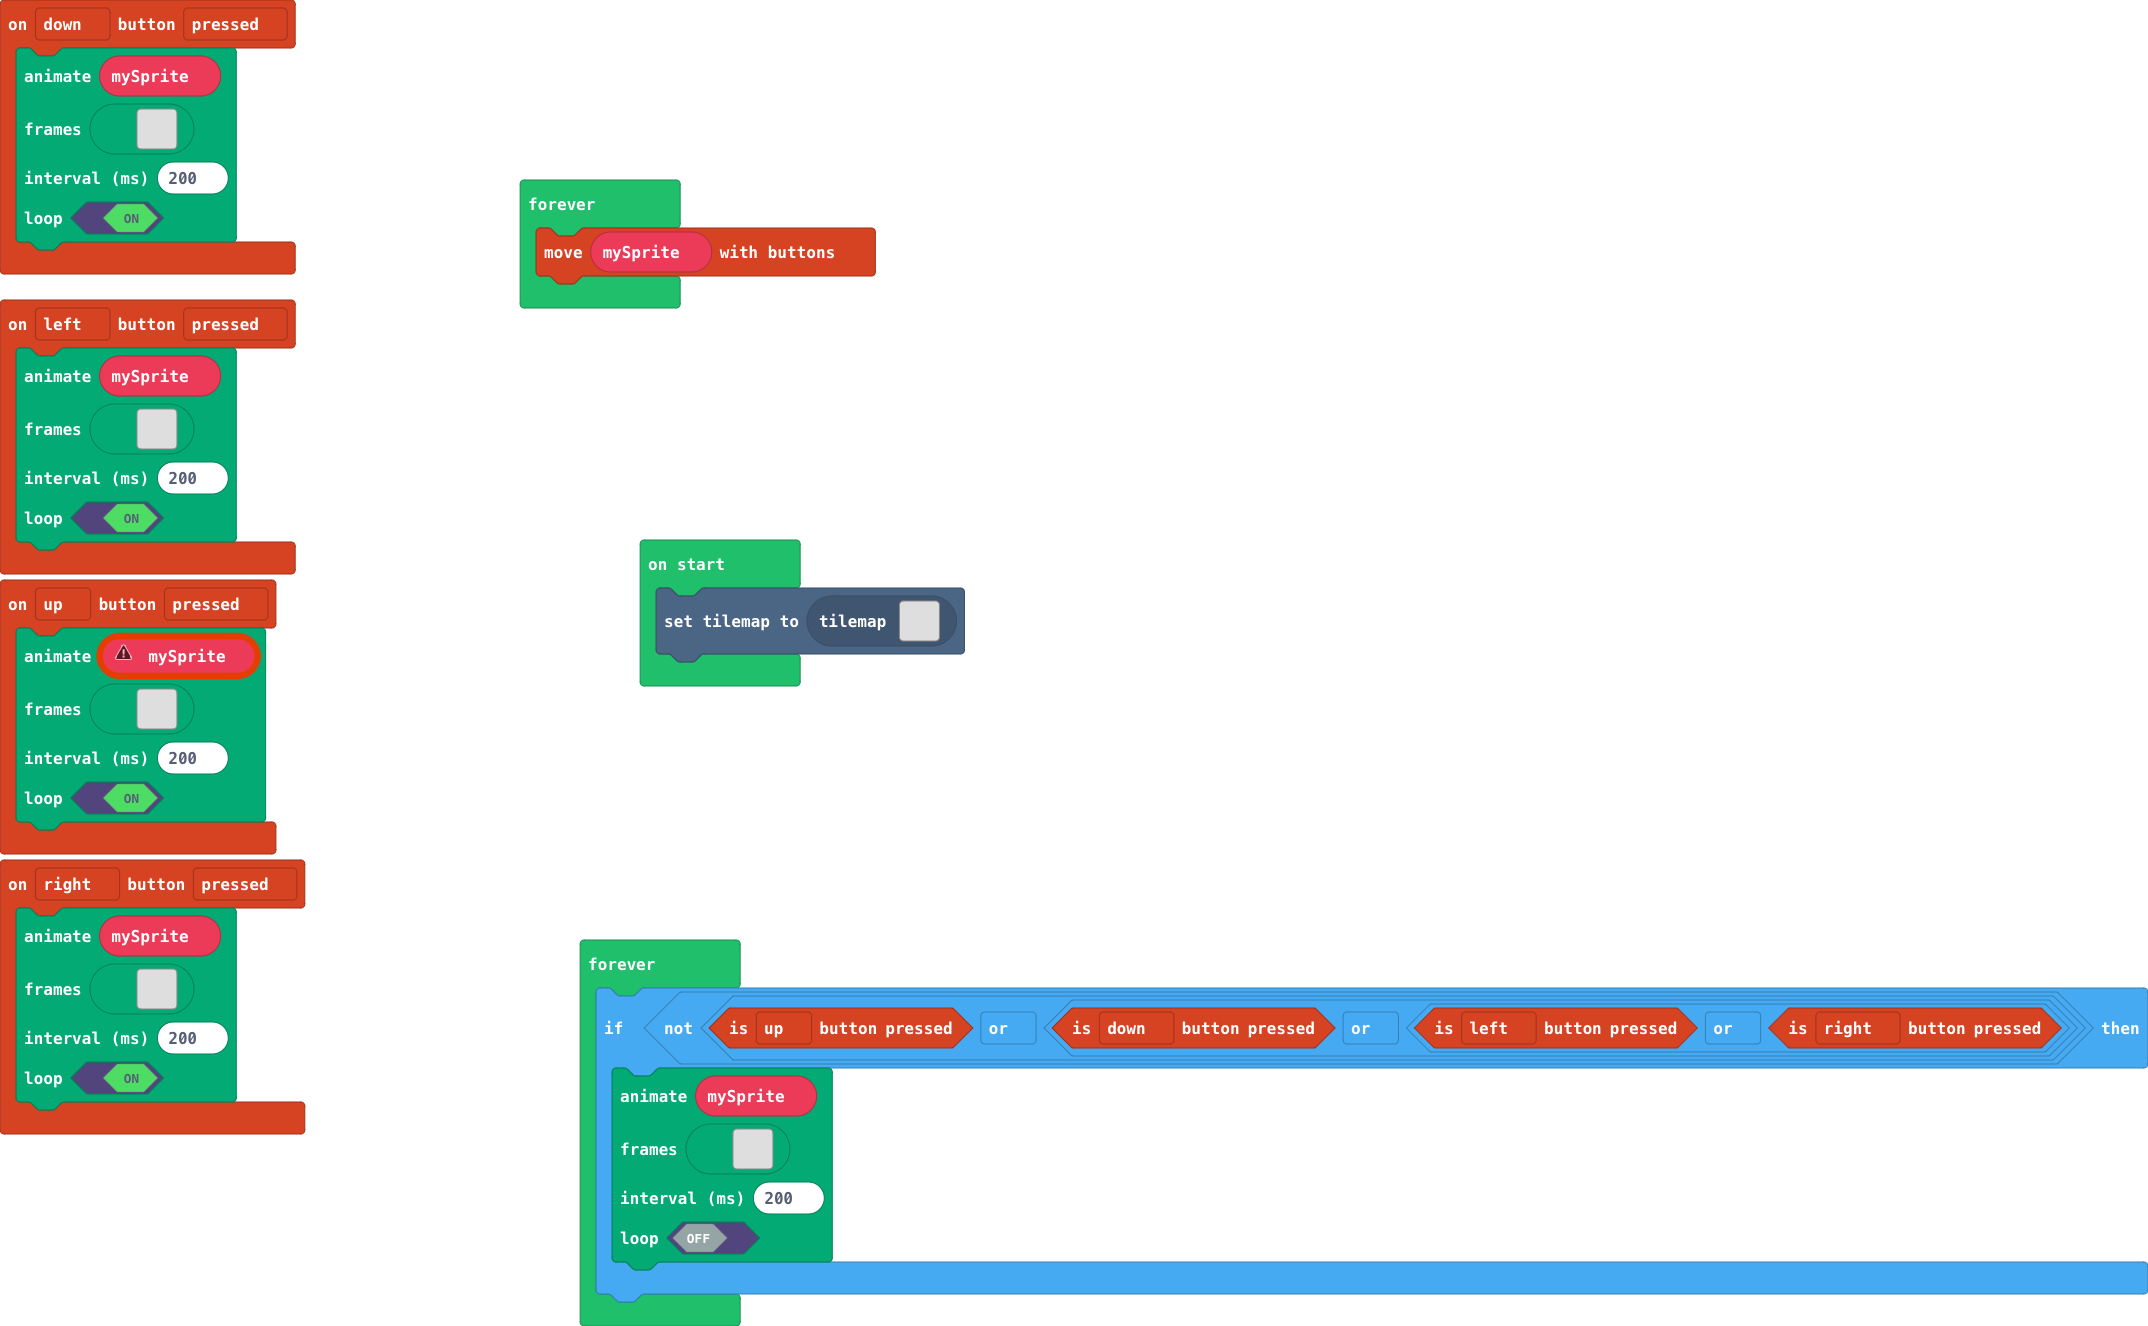
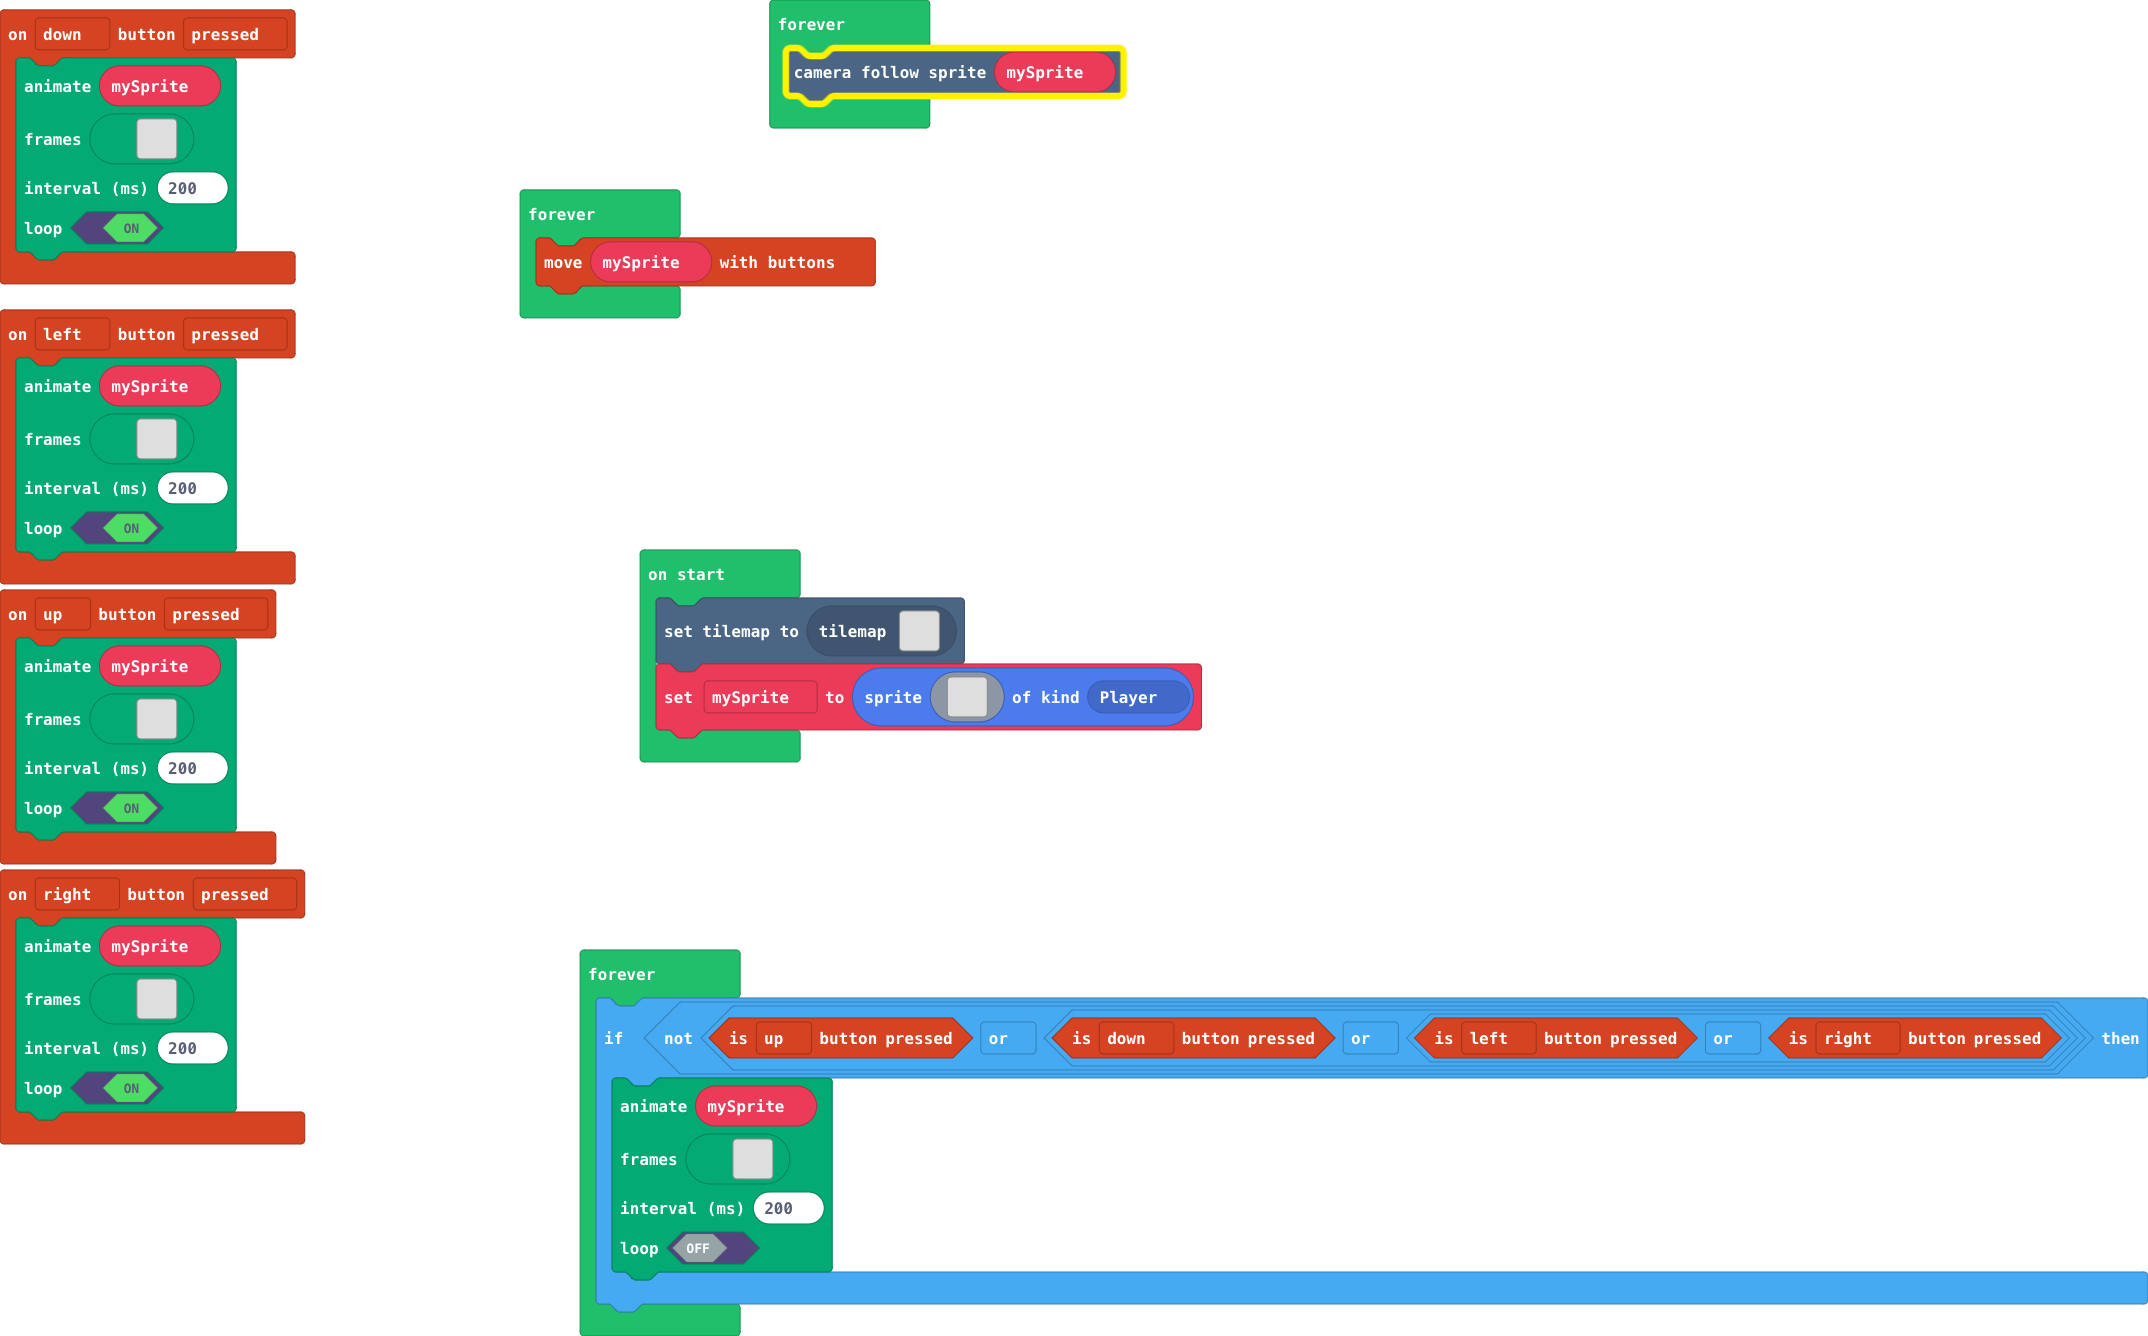
camera follow

diff --git a/images.g.ts b/images.g.ts
@@ -126,25 +126,6 @@ namespace myImages {
 ................................................................................................................................................................
 ................................................................................................................................................................
 `;
-            case "image1":
-            case "idleLeft":return img`
-. . . . f f f f f f . . . . . . 
-. . . f 2 f e e e e f f . . . . 
-. . f 2 2 2 f e e e e f f . . . 
-. . f e e e e f f e e e f . . . 
-. f e 2 2 2 2 e e f f f f . . . 
-. f 2 e f f f f 2 2 2 e f . . . 
-. f f f e e e f f f f f f f . . 
-. f e e 4 4 f b e 4 4 e f f . . 
-. . f e d d f 1 4 d 4 e e f . . 
-. . . f d d d d 4 e e e f . . . 
-. . . f e 4 4 4 e e f f . . . . 
-. . . f 2 2 2 e d d 4 . . . . . 
-. . . f 2 2 2 e d d e . . . . . 
-. . . f 5 5 4 f e e f . . . . . 
-. . . . f f f f f f . . . . . . 
-. . . . . . f f f . . . . . . . 
-`;
             case "image2":
             case "forestTree1":return img`
 777777777777777777777777
@@ -187,6 +168,25 @@ namespace myImages {
 775777777feeeef777777777
 77777777feeefeef77777777
 77777777fefeffef77777777
+`;
+            case "image1":
+            case "idleLeft":return img`
+. . . . f f f f f f . . . . . . 
+. . . f 2 f e e e e f f . . . . 
+. . f 2 2 2 f e e e e f f . . . 
+. . f e e e e f f e e e f . . . 
+. f e 2 2 2 2 e e f f f f . . . 
+. f 2 e f f f f 2 2 2 e f . . . 
+. f f f e e e f f f f f f f . . 
+. f e e 4 4 f b e 4 4 e f f . . 
+. . f e d d f 1 4 d 4 e e f . . 
+. . . f d d d d 4 e e e f . . . 
+. . . f e 4 4 4 e e f f . . . . 
+. . . f 2 2 2 e d d 4 . . . . . 
+. . . f 2 2 2 e d d e . . . . . 
+. . . f 5 5 4 f e e f . . . . . 
+. . . . f f f f f f . . . . . . 
+. . . . . . f f f . . . . . . . 
 `;
         }
         return null;

diff --git a/main.ts b/main.ts
@@ -32,6 +32,10 @@ controller.down.onEvent(ControllerButtonEvent.Pressed, function () {
 })
 let mySprite: Sprite = null
 tiles.setCurrentTilemap(tilemap`level`)
+mySprite = sprites.create(assets.image`idleLeft`, SpriteKind.Player)
+forever(function () {
+    scene.cameraFollowSprite(mySprite)
+})
 forever(function () {
     controller.moveSprite(mySprite)
 })

diff --git a/main.py b/main.py
@@ -1,19 +1,42 @@
-mySprite = sprites.create(img("""
-        . . . . . . . . . . . . . . . . 
-            . . . . . . . . . . . . . . . . 
-            . . . . . . . . . . . . . . . . 
-            . . . . . . . . . . . . . . . . 
-            . . . . . . . . . . . . . . . . 
-            . . . . . . . . . . . . . . . . 
-            . . . . . . . . . . . . . . . . 
-            . . . . . . . . . . . . . . . . 
-            . . . . . . . . . . . . . . . . 
-            . . . . . . . . . . . . . . . . 
-            . . . . . . . . . . . . . . . . 
-            . . . . . . . . . . . . . . . . 
-            . . . . . . . . . . . . . . . . 
-            . . . . . . . . . . . . . . . . 
-            . . . . . . . . . . . . . . . . 
-            . . . . . . . . . . . . . . . .
-    """),
-    SpriteKind.player)
+def on_up_pressed():
+    animation.run_image_animation(mySprite, assets.animation("""
+        walkUp
+    """), 200, True)
+controller.up.on_event(ControllerButtonEvent.PRESSED, on_up_pressed)
+
+def on_left_pressed():
+    animation.run_image_animation(mySprite,
+        assets.animation("""
+            heroWalkLeft
+        """),
+        200,
+        True)
+controller.left.on_event(ControllerButtonEvent.PRESSED, on_left_pressed)
+
+def on_right_pressed():
+    animation.run_image_animation(mySprite, assets.animation("""
+        walkRIght
+    """), 200, True)
+controller.right.on_event(ControllerButtonEvent.PRESSED, on_right_pressed)
+
+def on_down_pressed():
+    animation.run_image_animation(mySprite, assets.animation("""
+        walkDown
+    """), 200, True)
+controller.down.on_event(ControllerButtonEvent.PRESSED, on_down_pressed)
+
+mySprite: Sprite = None
+tiles.set_current_tilemap(tilemap("""
+    level
+"""))
+
+def on_forever():
+    controller.move_sprite(mySprite)
+forever(on_forever)
+
+def on_forever2():
+    if not (controller.up.is_pressed() or (controller.down.is_pressed() or (controller.left.is_pressed() or controller.right.is_pressed()))):
+        animation.run_image_animation(mySprite, assets.animation("""
+            idle
+        """), 200, False)
+forever(on_forever2)
